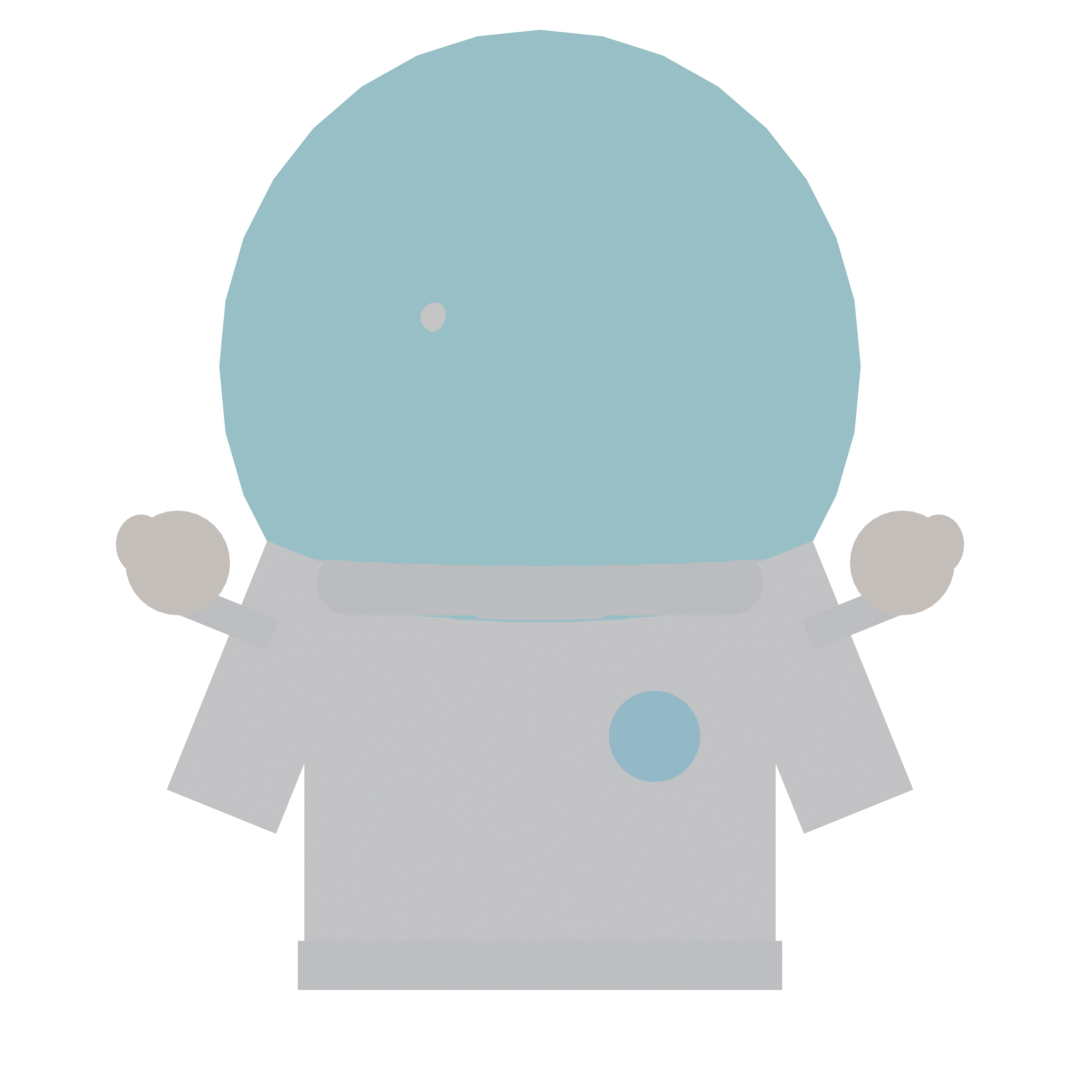
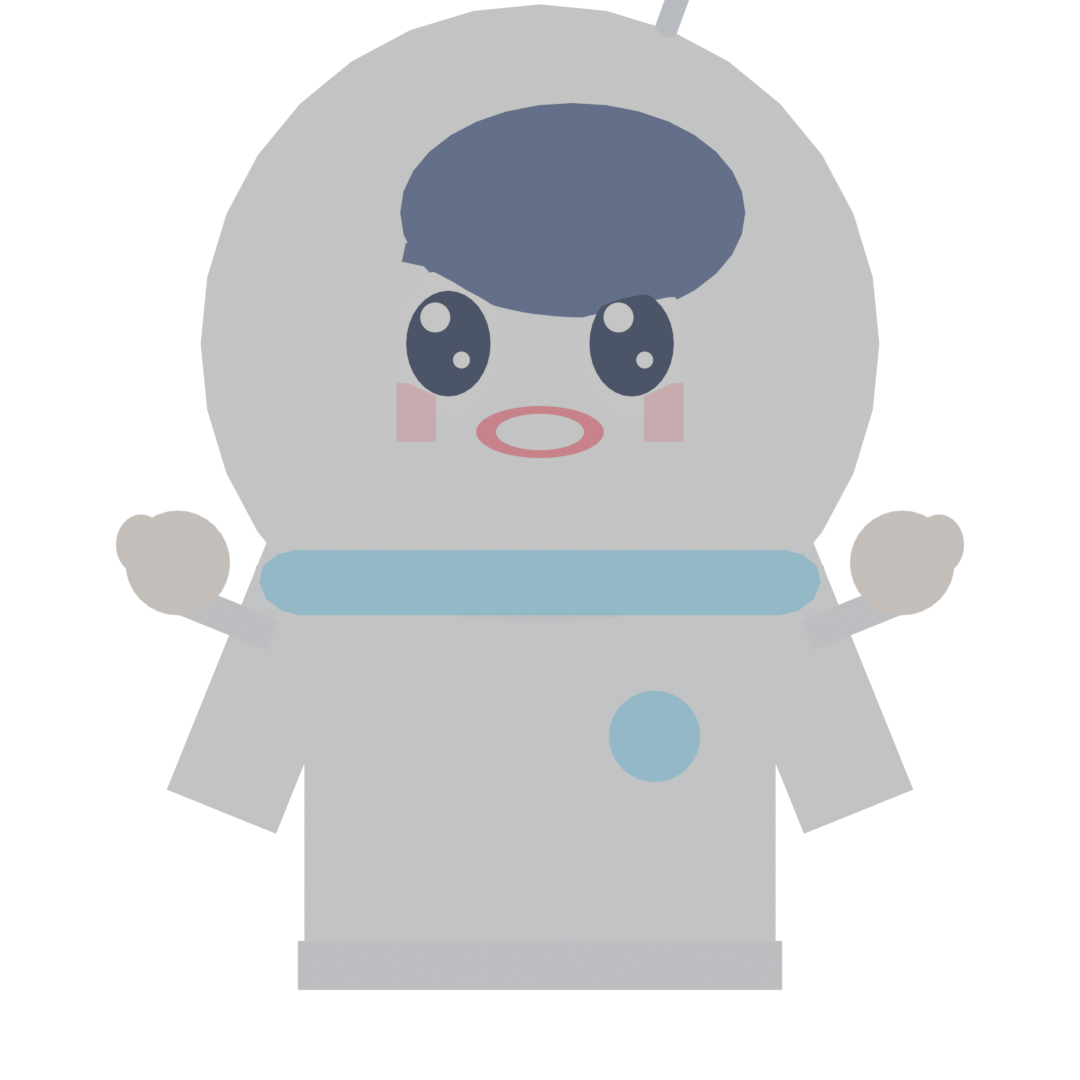
fix(character): Improve astronaut helmet visibility and diversify dynamic scene poses

Changed region(s): [[0.1833, 0.0, 0.825, 0.5806]]

diff --git a/pipeline/blender_character.py b/pipeline/blender_character.py
@@ -120,20 +120,36 @@ def build_character(pose="explain", outfit="explorer"):
     head.scale = (1.0, 0.28, 1.08)
     head.data.materials.append(m_skin)
 
-    # 4. Hair or Space Helmet
+    # 4. Hair & Helmet
     if outfit == "space":
-        # Space bubble helmet
-        bpy.ops.mesh.primitive_uv_sphere_add(radius=0.98, location=(0, 0, 0.88))
-        helmet = bpy.context.active_object
-        helmet.scale = (1.0, 0.32, 1.05)
-        m_glass = toon_mat("Glass", (0.2, 0.85, 1.0, 0.4))
-        helmet.data.materials.append(m_glass)
+        # White Astronaut Helmet Outer Dome (behind head)
+        bpy.ops.mesh.primitive_uv_sphere_add(radius=0.96, location=(0, 0.08, 0.95))
+        helmet_back = bpy.context.active_object
+        helmet_back.scale = (1.08, 0.35, 1.08)
+        helmet_back.data.materials.append(toon_mat("SpaceHelmet", (0.95, 0.96, 0.98, 1.0)))
 
         # Helmet collar ring
-        bpy.ops.mesh.primitive_torus_add(major_radius=0.75, minor_radius=0.1, location=(0, 0, 0.22))
+        bpy.ops.mesh.primitive_torus_add(major_radius=0.78, minor_radius=0.10, location=(0, -0.06, 0.22))
         ring = bpy.context.active_object
-        ring.scale = (1.0, 0.3, 1.0)
-        ring.data.materials.append(toon_mat("HelmetRim", c_helmet_rim))
+        ring.scale = (1.0, 0.35, 1.0)
+        ring.data.materials.append(toon_mat("HelmetRim", (0.2, 0.7, 1.0, 1.0)))
+
+        # Cute Antenna on helmet
+        bpy.ops.mesh.primitive_cylinder_add(radius=0.035, depth=0.45, location=(0.4, 0.05, 1.95))
+        ant = bpy.context.active_object
+        ant.rotation_euler = (0, math.radians(20), 0)
+        ant.data.materials.append(toon_mat("Antenna", (0.7, 0.75, 0.85, 1.0)))
+
+        # Glowing antenna beacon tip
+        bpy.ops.mesh.primitive_uv_sphere_add(radius=0.08, location=(0.48, 0.05, 2.15))
+        tip = bpy.context.active_object
+        tip.data.materials.append(toon_mat("Beacon", (1.0, 0.25, 0.25, 1.0)))
+
+        # Cute space explorer hair fringe
+        bpy.ops.mesh.primitive_uv_sphere_add(radius=0.48, location=(0.1, -0.22, 1.35))
+        fringe = bpy.context.active_object
+        fringe.scale = (1.1, 0.22, 0.7)
+        fringe.data.materials.append(m_hair)
     else:
         # Modern swept swoosh hairstyle
         # Back hair mass

diff --git a/pipeline/shorts.py b/pipeline/shorts.py
@@ -743,14 +743,14 @@ def render_auto(job: dict, c: dict, scenes: list, words: list, t: float) -> dict
         for i, sc in enumerate(scenes):
             if not sc.get("characterPose"):
                 narration = (job.get("scenes", [{}])[i].get("narration", "") if i < len(job.get("scenes", [])) else "").lower()
-                if cat == "space" or any(w in narration for w in ("space", "astronaut", "nasa", "orbit", "planet", "galaxy", "rocket")):
-                    sc["characterPose"] = "astronaut"
-                elif i == 0:
-                    sc["characterPose"] = "shock"
+                if i == 0:
+                    sc["characterPose"] = "shock"  # Hook scene: hands-on-cheeks reaction!
                 elif sc.get("stat"):
-                    sc["characterPose"] = "point"
+                    sc["characterPose"] = "point"  # Stat/number scene: pointing gesture!
                 elif any(w in narration for w in ("phone", "internet", "app", "digital", "tech", "screen")):
                     sc["characterPose"] = "phone"
+                elif cat == "space" and i % 2 == 1:
+                    sc["characterPose"] = "astronaut"
                 elif i % 3 == 1:
                     sc["characterPose"] = "think"
                 elif i % 3 == 2:
